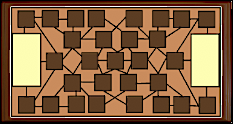
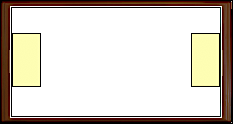
Documentar arquitectura y reglas del juego
- Actualizados algunos iconos
- ARCHITECTURE.md: mapa de los 9 módulos, jerarquía de dependencias,
  decisiones de diseño clave (funciones mensajeras para el estado,
  sistema de modal con retraso, posiciones del tablero unificadas)
- REGLAS.md: reglas completas del juego actualizadas, reflejando todos
  los cambios implementados (Flecha, Martillo con elección, límite de
  ejército, primer turno sin producción, retiro tras combate, cañón
  sin función defensiva, confirmaciones de conquista inicial y combate)

Cierra la Fase 4 (limpieza y documentación) del refactor de
modularización iniciado en la rama modularizacion.

diff --git a/constants.js b/constants.js
@@ -47,20 +47,20 @@ export const CONEXIONES_TABLERO = {
 // Posiciones (%) usadas SOLO para calcular los centros de las líneas de conexión del SVG.
 // Deben coincidir con las reglas de estilos.css.
 export const POSICIONES = {
-    'castillo-p1': { top: 28.5, left: 5.5, w: 12, h: 40 },
-    'castillo-p2': { top: 28.5, left: 82.5, w: 12, h: 40 },
+    'castillo-p1': { top: 28.5, left: 5.5, w: 11.5, h: 40 },
+    'castillo-p2': { top: 28.5, left: 82.5, w: 11.5, h: 40 },
 
     'nodo-1': { top: 8.5, left: 8.2, w: 6.6, h: 11.6 }, 'nodo-2': { top: 8.5, left: 18.2, w: 6.6, h: 11.6 },
     'nodo-3': { top: 8.5, left: 28.2, w: 6.6, h: 11.6 }, 'nodo-4': { top: 8.5, left: 38.2, w: 6.6, h: 11.6 },
     'nodo-5': { top: 8.5, left: 55.2, w: 6.6, h: 11.6 }, 'nodo-6': { top: 8.5, left: 65.2, w: 6.6, h: 11.6 },
-    'nodo-7': { top: 8.5, left: 75.2, w: 6.6, h: 11.6 }, 'nodo-8': { top: 8.5, left: 85.2, w: 6.6, h: 11.6 },
+    'nodo-7': { top: 8.5, left: 75.2, w: 6.6, h: 11.6 }, 'nodo-8': { top: 8.5, left: 84.7, w: 6.6, h: 11.6 },
 
     'nodo-9': { top: 26, left: 28, w: 6.6, h: 11.6 }, 'nodo-10': { top: 26, left: 41, w: 6.6, h: 11.6 },
     'nodo-11': { top: 26, left: 52.4, w: 6.6, h: 11.6 }, 'nodo-12': { top: 26, left: 65.4, w: 6.6, h: 11.6 },
 
-    'nodo-13': { top: 42.7, left: 20.5, w: 6.6, h: 11.6 }, 'nodo-14': { top: 42.7, left: 35.5, w: 6.6, h: 11.6 },
-    'nodo-15': { top: 42.7, left: 46.7, w: 6.6, h: 11.6 }, 'nodo-16': { top: 42.7, left: 57.9, w: 6.6, h: 11.6 },
-    'nodo-17': { top: 42.7, left: 72.9, w: 6.6, h: 11.6 },
+    'nodo-13': { top: 42.7, left: 21.5, w: 6.6, h: 11.6 }, 'nodo-14': { top: 42.7, left: 34.5, w: 6.6, h: 11.6 },
+    'nodo-15': { top: 42.7, left: 46.7, w: 6.6, h: 11.6 }, 'nodo-16': { top: 42.7, left: 58.9, w: 6.6, h: 11.6 },
+    'nodo-17': { top: 42.7, left: 71.7, w: 6.6, h: 11.6 },
 
     'nodo-18': { top: 61.5, left: 28, w: 6.6, h: 11.6 }, 'nodo-19': { top: 61.5, left: 41, w: 6.6, h: 11.6 },
     'nodo-20': { top: 61.5, left: 52.4, w: 6.6, h: 11.6 }, 'nodo-21': { top: 61.5, left: 65.4, w: 6.6, h: 11.6 },
@@ -68,7 +68,7 @@ export const POSICIONES = {
     'nodo-22': { top: 79, left: 8.2, w: 6.6, h: 11.6 }, 'nodo-23': { top: 79, left: 18.2, w: 6.6, h: 11.6 },
     'nodo-24': { top: 79, left: 28.2, w: 6.6, h: 11.6 }, 'nodo-25': { top: 79, left: 38.2, w: 6.6, h: 11.6 },
     'nodo-26': { top: 79, left: 56.2, w: 6.6, h: 11.6 }, 'nodo-27': { top: 79, left: 65.2, w: 6.6, h: 11.6 },
-    'nodo-28': { top: 79, left: 75.2, w: 6.6, h: 11.6 }, 'nodo-29': { top: 79, left: 85.2, w: 6.6, h: 11.6 }
+    'nodo-28': { top: 79, left: 75.2, w: 6.6, h: 11.6 }, 'nodo-29': { top: 79, left: 84.7, w: 6.6, h: 11.6 }
 };
 
 

diff --git a/index.html b/index.html
@@ -20,6 +20,13 @@
         <h1 class="titulo-pantalla-inicio">Máquinas<br>de Guerra</h1>
         <p class="lobby-descripcion">Conquista terreno, extrae recursos, construye tu ejército y derriba el castillo rival antes de que él derribe el tuyo.</p>
         <button id="btnIniciar" class="btn-principal">Iniciar Partida ⚔</button>
+        <br><br><br><br><br><br><br><br><br><br><br><br><br><br><br><br><br><br><br><br><br>
+
+        <p>&copy; <span id="year"></span> Maquinas de Guerra. Todos los derechos reservados.</p>
+        <script>
+            // Inserta el año actual de forma automática
+            document.getElementById('year').textContent = new Date().getFullYear();
+        </script>
     </div>
 </div>
 

diff --git a/estilos.css b/estilos.css
@@ -238,7 +238,7 @@ h1, h2, h3, .titulo-juego, .indicador-turno-box {
 
 #imagen-tablero { position: absolute; inset: 0; width: 100%; height: 100%; object-fit: fill; opacity: 1; }
 #conexiones-svg { position: absolute; inset: 0; width: 100%; height: 100%; z-index: 1; }
-#conexiones-svg line { stroke: #655132; stroke-width: 0.5; }
+#conexiones-svg line { stroke: #a37d49; stroke-width: 0.6; }
 
 .nodo-terreno {
     position: absolute;
